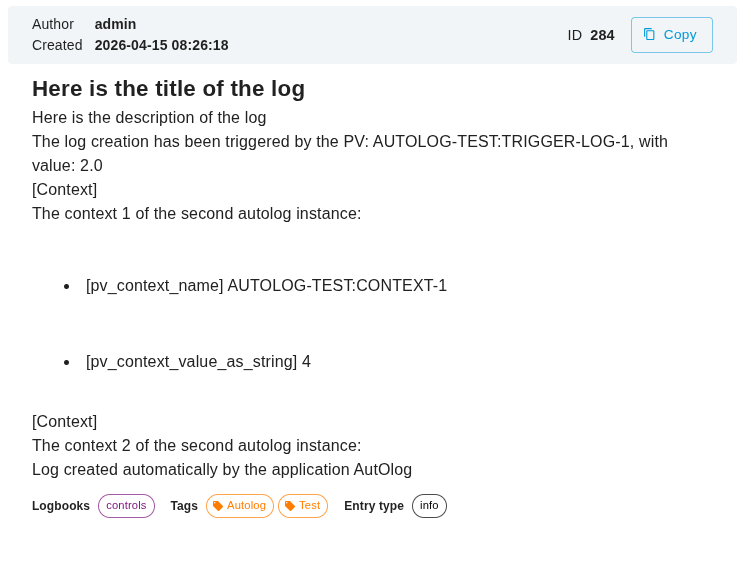
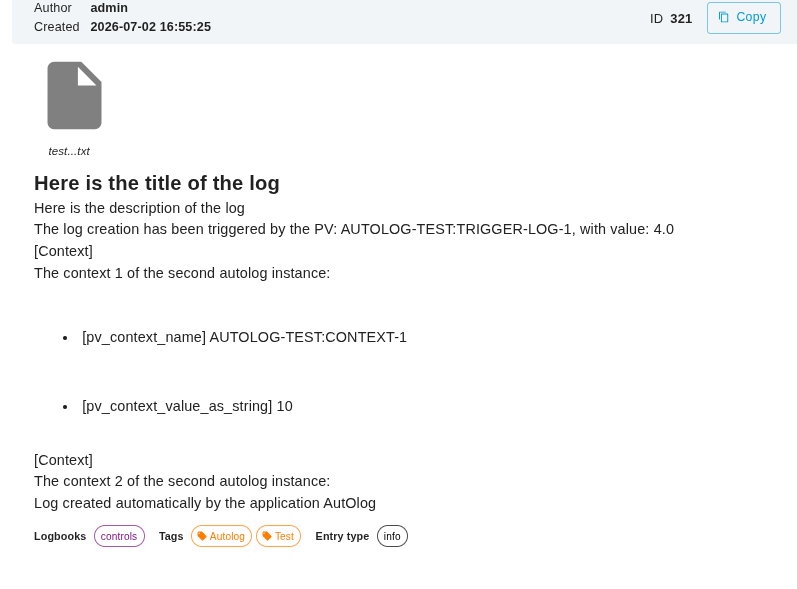
doc: example

diff --git a/README.md b/README.md
@@ -127,6 +127,10 @@ Can be entered manually using the credentials argument.
   logbook = "controls"
   tags = ["Autolog","Test"] #not required
   check_time = 3 #not required. Loop time, default value: 5s
+  attachment_files = [ "example/test.txt" ]  # absolute or relative path to the location where the script is being run
+
+
+
 ```
 
 - **`title`** (required): The title of the log entry.
@@ -135,6 +139,7 @@ Can be entered manually using the credentials argument.
 - **`logbook`** (required): The logbook to which the entry belongs.
 - **`tags`** (optional): Tags associated with the log entry.
 - **`check_time`** (optional): Loop time for checking conditions, default value is 5 seconds.
+- **`attachment_files`** (optional): Files to attach to the log
 
 ### Autolog Instances
 